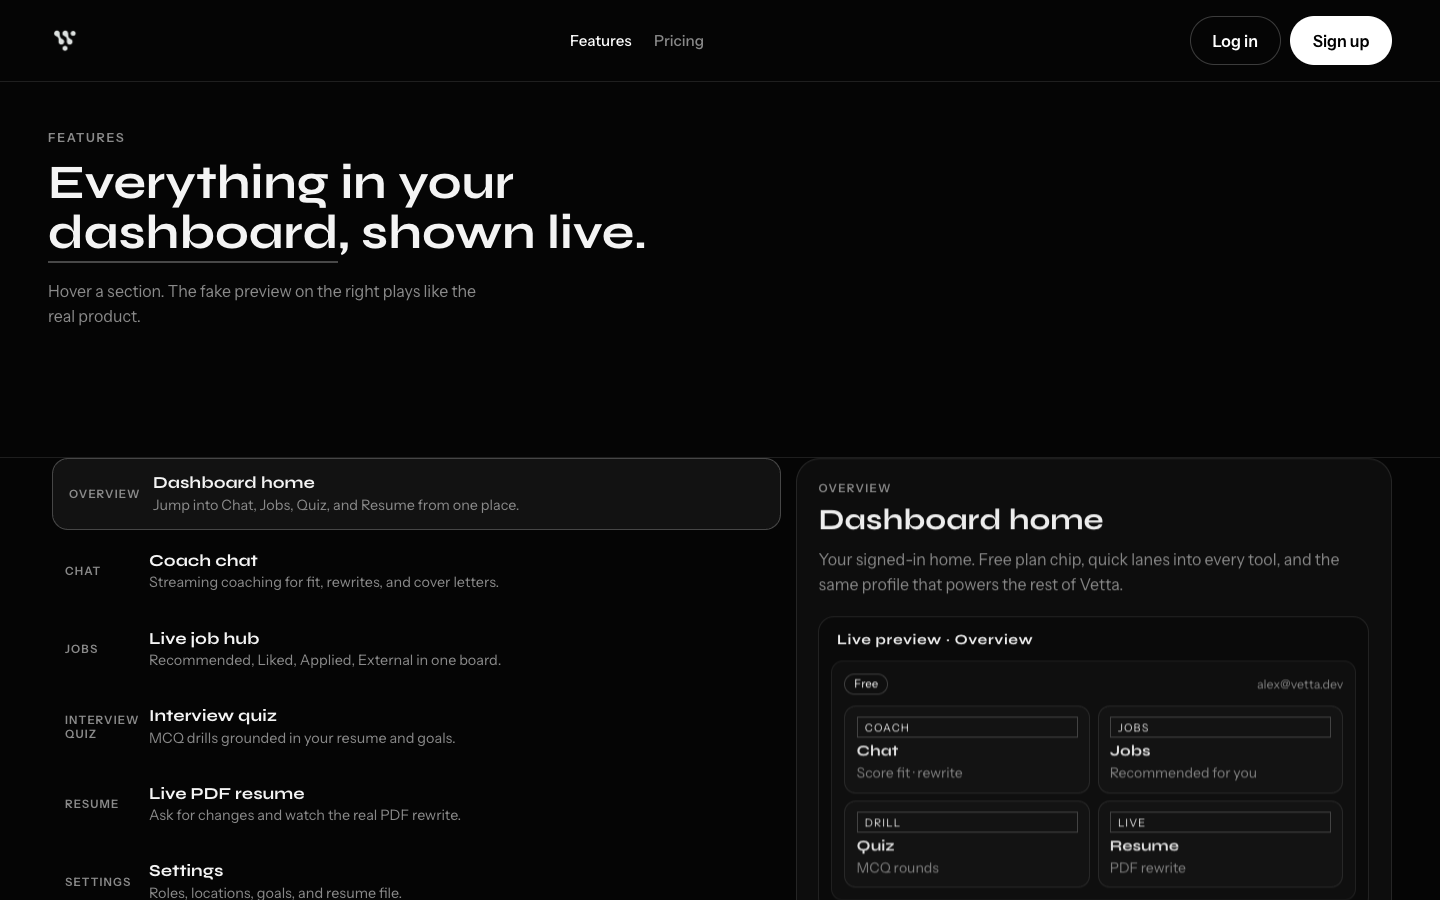
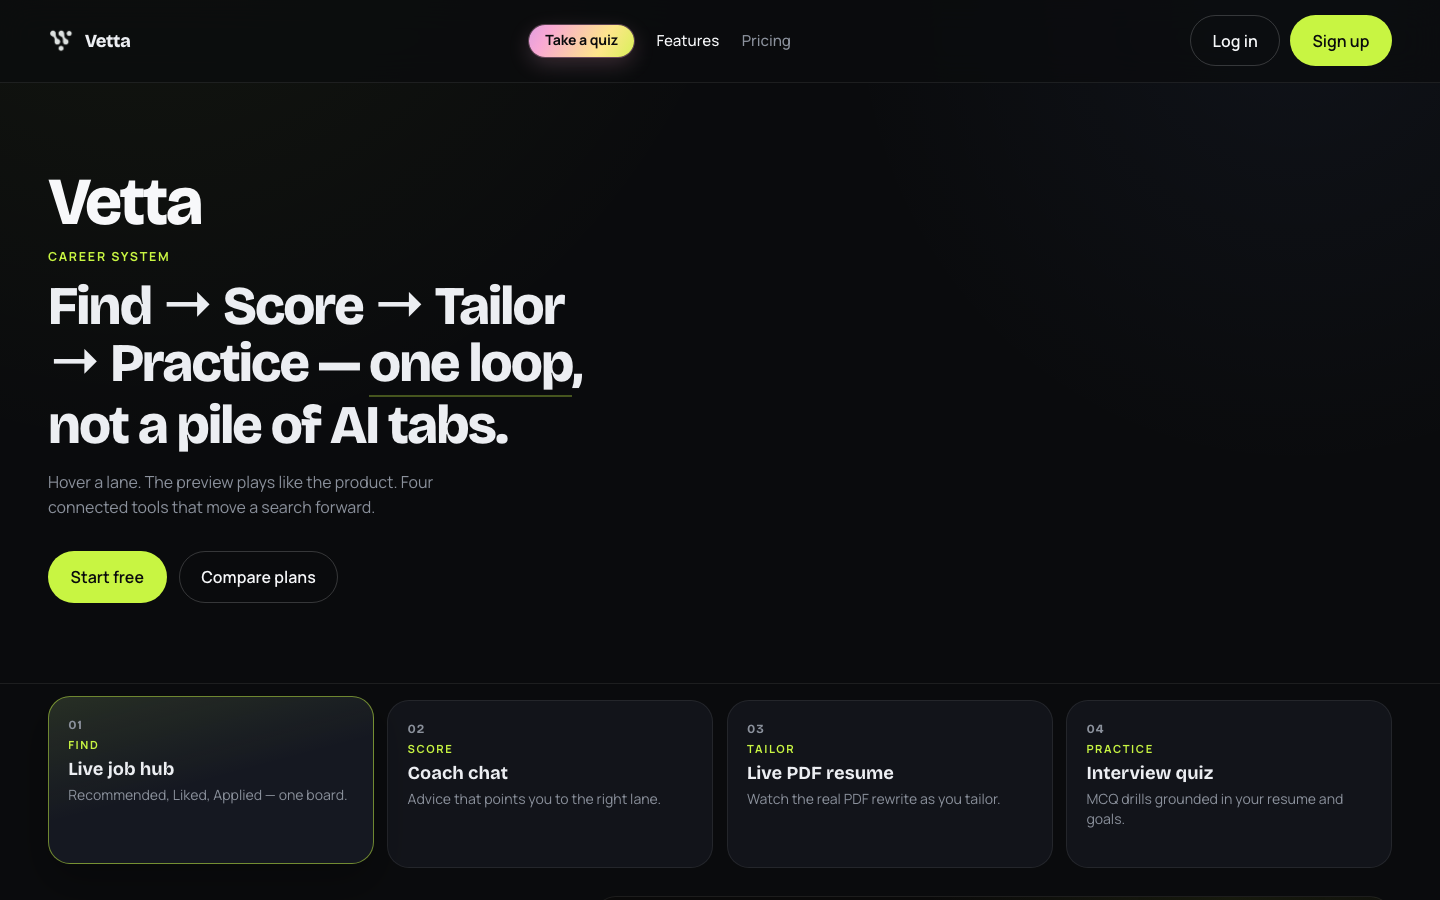
Refresh README screenshots from the current site.
Capture landing, features, pricing (TBA plans), and the public Take a quiz funnel so GitHub matches the live UI.

diff --git a/README.md b/README.md
@@ -14,10 +14,14 @@ Career coach app I built for job search: chat with an AI coach, browse live role
 | **Jobs** | Recommended / Liked / Applied / External hub (Adzuna first, free tier) |
 | **Interview Quiz** | MCQs grounded in your resume and goals |
 | **Resume** | Tell it what to change; preview is the actual multi-page PDF; download when ready |
-| **Settings / Plans** | Preferences, upload, Stripe Checkout for Expert/Pro, Customer Portal |
+| **Settings / Plans** | Preferences, resume upload; paid plans TBA |
 
 <p align="center">
   <img src="docs/screenshots/features.png" alt="Features page with live previews" width="900" />
+</p>
+
+<p align="center">
+  <img src="docs/screenshots/try.png" alt="Public Take a quiz funnel" width="900" />
 </p>
 
 ## Stack
@@ -26,7 +30,7 @@ Career coach app I built for job search: chat with an AI coach, browse live role
 - React (Vite) UI, served from the same Render service in production
 - Supabase auth + Postgres
 - Jobs: Adzuna → JSearch → Tavily (Apify off by default)
-- Stripe Checkout + Customer Portal (subscriptions)
+- Stripe optional (paid plans TBA)
 - LangSmith tracing optional
 
 ## Run locally
